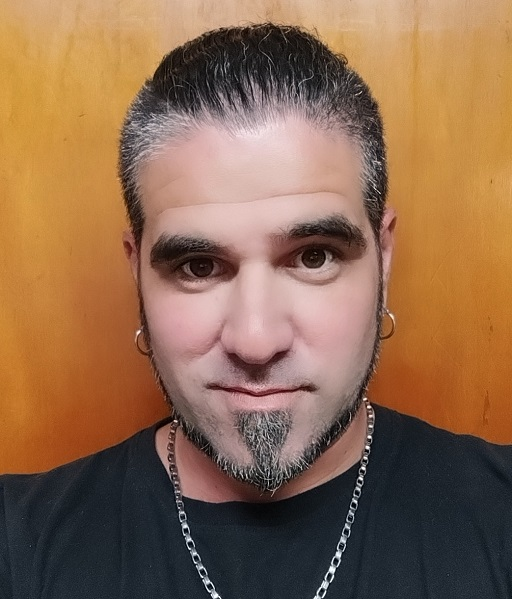
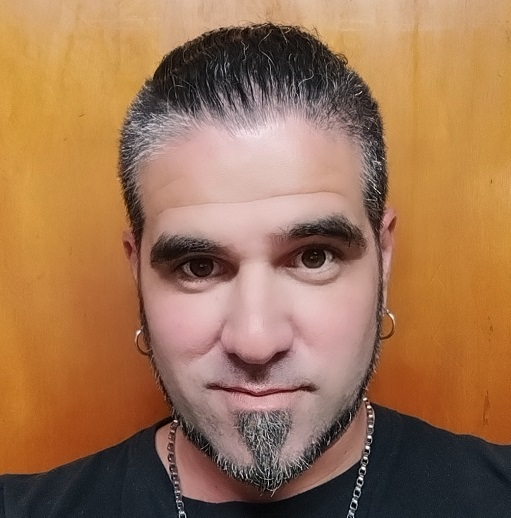
ultimos cambios

diff --git a/index.html b/index.html
@@ -24,16 +24,30 @@
         </nav>
     </header>
     <main>
-        <section><img alt="IMAGEN" src=""></section>
+        <section id="imagen">
+            <div class="contenedor">
+                <img class="delantera" alt="fotoPerfil" src="/imag/FotoIA.png">
+                <img class="trasera" alt="fotoPerfil" src="/imag/FotoReal.jpg">
+            </div>
+        </section>
+
         <section id="inicio">
-            <h3>Inicio</h3>
-            <p> Lorem, ipsum dolor sit amet consectetur adipisicing elit. Fugit in dicta vel, ipsa omnis debitis qui
-                provident repellendus corrupti nam quod itaque recusandae? Tempora repellat molestiae, suscipit enim
-                tempore dolores?</p>
+            <h3>Holis! Soy Edu, Soy de Argentina.</h3>
+            <p> Soy un apasionado programador con experiencia en desarrollo frontend y backend. Mi objetivo es crear
+                soluciones que impulsen el éxito de los proyectos en los que participo.</p>
         </section>
         <section id="habilidades">
-            <h3>Habilidades</h3>
-            <p> Iconos -**/* </p>
+            <h3>HABILIDADES</h3>
+            <h2> Dev Full Stack</h2>
+            <div id="iconos">
+                <img src="https://skillicons.dev/icons?i=html,css,js,bootstrap,git,github,powershell&perline=14" />
+
+                <img src="https://skillicons.dev/icons?i=java,spring,mysql,sqlite,py,react,vscode&perline=14" />
+
+
+                <img src="https://skillicons.dev/icons?i=npm,prisma,nextjs,nodejs,tailwind&perline=14" />
+            </div>
+            <h3>IDIOMAS</h3>
         </section>
         <section>
             <section id="proyectos">

diff --git a/style.css b/style.css
@@ -1,5 +1,6 @@
 * {
   text-align: center;
+  font-size: 14px;
 }
 
 header {
@@ -47,23 +48,61 @@ section {
   border-radius: 10px;
 }
 
-img {
-  max-width: 100%;
+/** IMAGENES */
+
+.contenedor {
+  position: relative;
+  width: 200px;
+  height: 200px;
+}
+
+#imagen img {
+  position: absolute;
+  max-width: 80%;
   height: auto;
+  border-radius: 50%;
+  top: 13px;
+  left: 13px;
+  transform-style: preserve-3d;
+  transition: transform 0.4s ease;
+  box-shadow: 0 0 10px rgba(0, 0, 0, 0.3); 
+}
+
+.trasera {
+  visibility: hidden;
+  transform: rotateY(160deg); 
+}
+
+.contenedor:hover .delantera {
+  transform: rotateY(180deg);
+  visibility: hidden;
+}
+
+.contenedor:hover .trasera {
+  transform: rotateY(0deg); 
+  visibility: visible;
+}
+
+/** HABILIDADES */
+
+#iconos img{
+  width: 100%;
+  align-items: center;
 }
 
 /* Asignar áreas */
 section:nth-child(1) {
   grid-area: image;
-  background-color: rgb(216, 175, 113);
 }
 
 section:nth-child(2) {
   grid-area: inicio;
   background-color: rgb(224, 163, 71);
+  align-content: center;
 }
 
 section:nth-child(3) {
+  width: 190px;
   height: 300px;
   grid-area: habilidades;
   background-color: rgb(190, 125, 26);

diff --git a/script.js b/script.js
@@ -4,7 +4,4 @@ document.addEventListener("DOMContentLoaded", function() {
     
     let habilidades = document.getElementById("habilidades");
 
-    const skills = ["HTML", "CSS"];
-
-    habilidades.innerHTML = skills.join(", ");
 });
